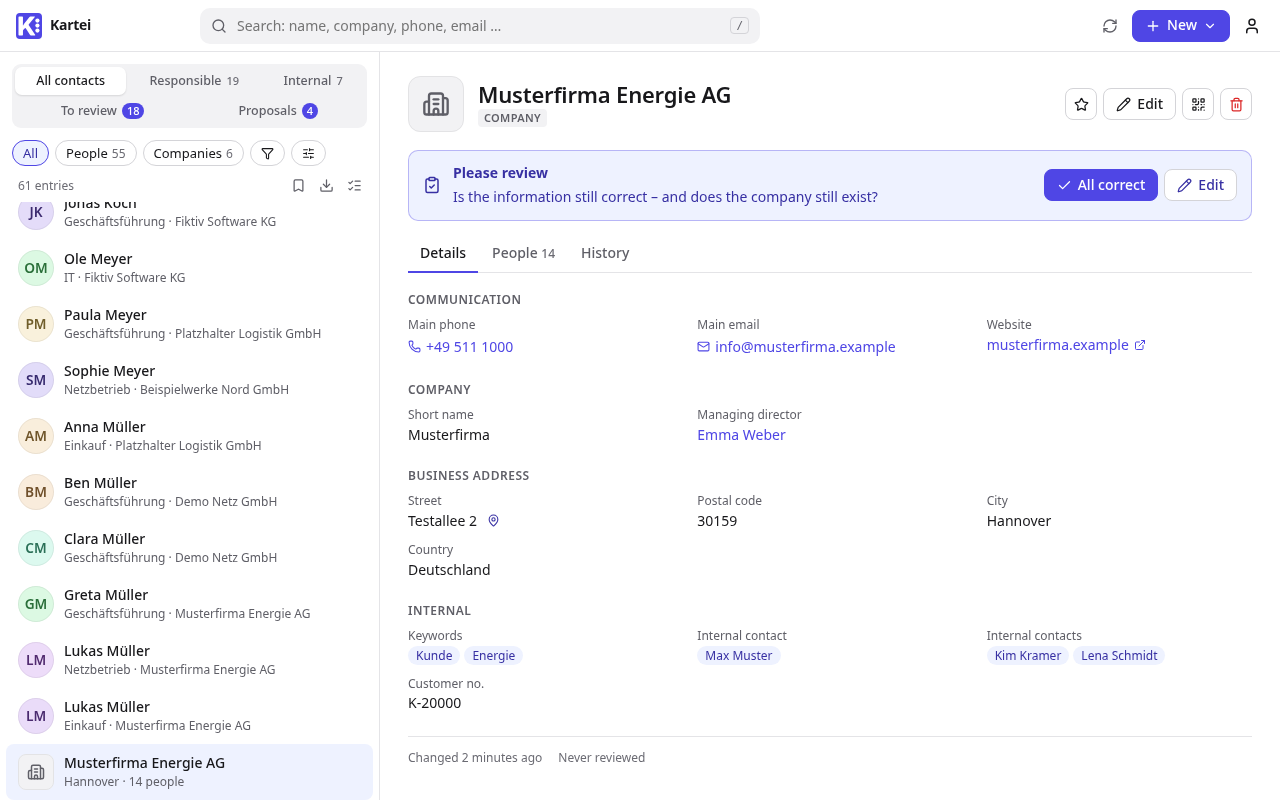
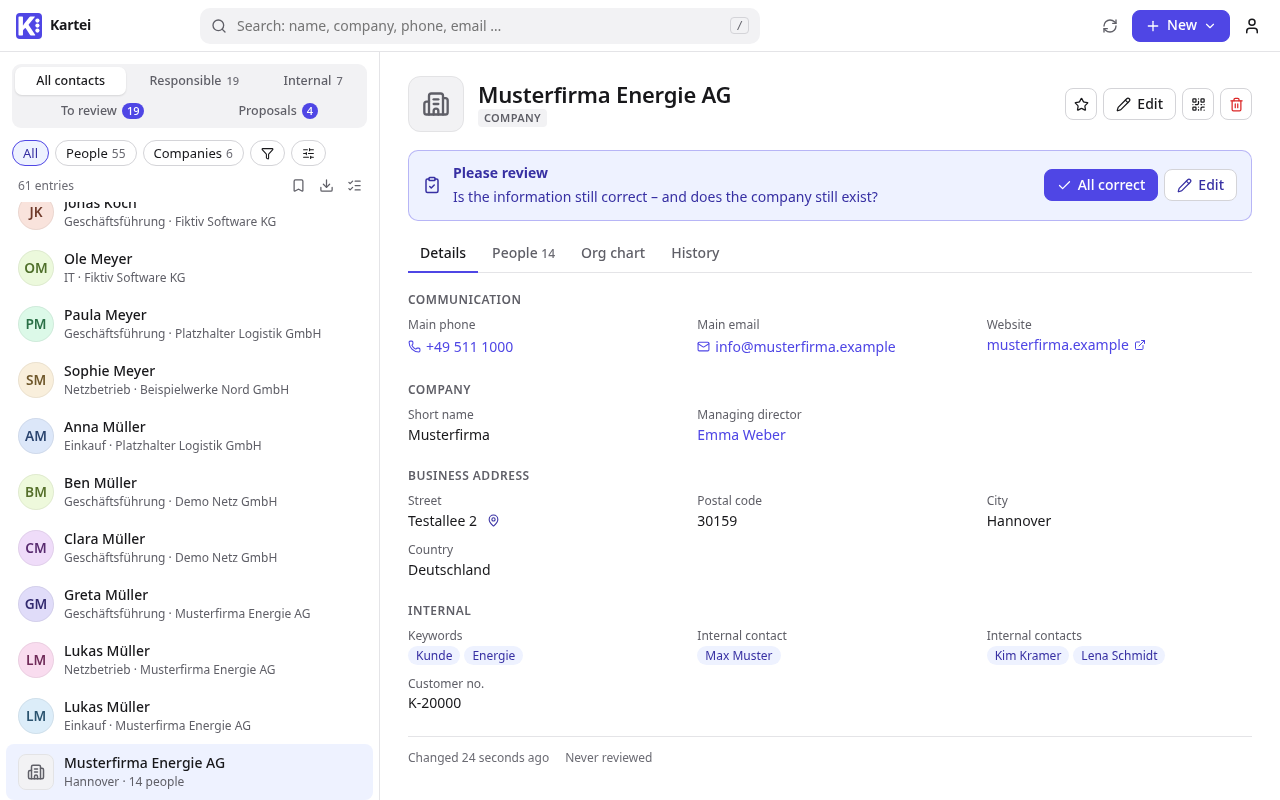
Org chart and "linked from"
- A Contact field with the vCard target related_manager means "reports to": companies get an Org chart
  tab, a tree of their people along it (src/lib/orgchart.ts: cycles, people reporting outside the
  company and a depth limit handled; nested lists with CSS connector lines).
- A person lists who points at them through Contact fields: direct reports, or the company where they
  are managing director (store.refs).
- Example field set: Manager becomes a Contact field (free text still allowed); seed_demo fills it with
  two to three levels per company.

diff --git a/frontend/src/components/RecordView.svelte b/frontend/src/components/RecordView.svelte
@@ -7,12 +7,14 @@
   import Avatar from './Avatar.svelte'
   import History from './History.svelte'
   import RecordForm from './RecordForm.svelte'
+  import OrgChart from './OrgChart.svelte'
   import { ApiError, del, post } from '../lib/api'
   import { go } from '../lib/router.svelte'
   import { store } from '../lib/store.svelte'
   import { fmt, isEmpty, isMulti, relTime, dateTime } from '../lib/format'
   import { L, t, terr } from '../lib/i18n.svelte'
   import { groupFields } from '../lib/sections'
+  import { hasOrg, managerField } from '../lib/orgchart'
   import { copyText, toast } from '../lib/toast.svelte'
   import { hasEditDraft } from '../lib/drafts'
   import { confirmDialog } from '../lib/confirm.svelte'
@@ -34,7 +36,7 @@
     const address = [part('street'), [part('zip'), part('city')].filter(Boolean).join(' '), part('country')].filter(Boolean).join(', ')
     return store.mapUrl.replaceAll('{address}', encodeURIComponent(address))
   }
-  let tab = $state<'details' | 'persons' | 'history'>('details')
+  let tab = $state<'details' | 'persons' | 'org' | 'history'>('details')
   // edit form that proposes (new or own pending proposal) or adjusts a proposal before applying it
   let proposing = $state<{ mode: 'propose' | 'adjust'; proposal: Proposal | null } | null>(null)
   let deleting = $state(false) // delete-proposal composer
@@ -87,6 +89,18 @@
 
   const company = $derived(rec.company ? store.byUid.get(rec.company) : undefined)
   const persons = $derived(rec.kind === 'company' ? store.persons.get(rec.uid) ?? [] : [])
+  const manager = $derived(managerField(store.fields))
+  const showOrg = $derived(!!manager && rec.kind === 'company' && hasOrg(persons, manager.key))
+  /** who points at this person through a contact field, grouped by field: "Direct reports", "As Managing director of" */
+  const linked = $derived.by(() => {
+    const groups = new Map<string, { field: Field; recs: Rec[] }>()
+    for (const { rec: r, field } of store.refs.get(rec.uid) ?? []) {
+      const g = groups.get(field.key) ?? { field, recs: [] }
+      g.recs.push(r)
+      groups.set(field.key, g)
+    }
+    return [...groups.values()]
+  })
   /** filled-in fields by section, in section order */
   const sections = $derived(
     groupFields(store.fieldsFor(rec.kind).filter((f) => !isEmpty(rec.data[f.key])), store.sections).map((g) => ({
@@ -201,6 +215,7 @@
       <button class:on={tab === 'details'} onclick={() => (tab = 'details')}>{t('view.details')}</button>
       {#if rec.kind === 'company'}
         <button class:on={tab === 'persons'} onclick={() => (tab = 'persons')}>{t('view.persons')} <span class="count">{persons.length}</span></button>
+        {#if showOrg}<button class:on={tab === 'org'} onclick={() => (tab = 'org')}>{t('view.org')}</button>{/if}
       {/if}
       <button class:on={tab === 'history'} onclick={() => (tab = 'history')}>{t('view.history')}</button>
     </nav>
@@ -250,6 +265,21 @@
           </dl>
         </section>
       {/each}
+      {#if linked.length}
+        <section>
+          <h3>{t('view.linked')}</h3>
+          <dl>
+            {#each linked as g (g.field.key)}
+              <div class="row wide">
+                <dt>{g.field.vcard === 'related_manager' ? t('view.direct_reports') : t('view.linked_as', { field: L(g.field.label) })}</dt>
+                <dd>
+                  {#each g.recs as r, i (r.uid)}<a href="/{r.kind}/{r.uid}">{store.name(r)}</a>{#if i < g.recs.length - 1}<span>, </span>{/if}{/each}
+                </dd>
+              </div>
+            {/each}
+          </dl>
+        </section>
+      {/if}
       <footer class="meta">
         {#if rec.legacy_id}<span>{t('view.legacy_id', { id: rec.legacy_id })}</span>{/if}
         <span title={dateTime(rec.updated_at)}>{rec.updated_by ? t('view.updated', { when: relTime(rec.updated_at), user: store.userName(rec.updated_by) })
@@ -268,6 +298,8 @@
           <li class="muted">{t('view.no_persons')}</li>
         {/each}
       </ul>
+    {:else if tab === 'org' && manager}
+      <OrgChart staff={persons} field={manager.key} />
     {:else}
       <History uid={rec.uid} />
     {/if}

diff --git a/frontend/src/components/OrgChart.svelte b/frontend/src/components/OrgChart.svelte
@@ -1,0 +1,44 @@
+<script lang="ts">
+  import Avatar from './Avatar.svelte'
+  import { store } from '../lib/store.svelte'
+  import { orgTree, type OrgNode } from '../lib/orgchart'
+  import type { Rec } from '../lib/types'
+
+  /** the company's persons as a tree along the "reports to" field; a nested list, so keyboard and screen readers just work */
+  let { staff, field }: { staff: Rec[]; field: string } = $props()
+  const roots = $derived(orgTree(staff, field, (r) => store.name(r)))
+  const titleKey = $derived(store.fields.find((f) => f.vcard === 'title' && !f.archived)?.key)
+  const job = (r: Rec) => (titleKey ? r.data[titleKey] : '') ?? ''
+</script>
+
+{#snippet tree(nodes: OrgNode[])}
+  <ul>
+    {#each nodes as n (n.rec.uid)}
+      <li>
+        <a class="person" href="/person/{n.rec.uid}">
+          <Avatar rec={n.rec} size={28} />
+          <span><strong>{store.name(n.rec)}</strong>{#if job(n.rec)}<small>{job(n.rec)}</small>{/if}</span>
+        </a>
+        {#if n.children.length}{@render tree(n.children)}{/if}
+      </li>
+    {/each}
+  </ul>
+{/snippet}
+
+<div class="org">{@render tree(roots)}</div>
+
+<style>
+  /* connector lines: each nested item hangs off a vertical line with a short horizontal tick */
+  .org :global(ul) { list-style: none; margin: 0; padding-left: 0; }
+  .org :global(ul ul) { margin-left: 13px; padding-left: 20px; }
+  .org :global(ul ul > li) { position: relative; }
+  .org :global(ul ul > li::before) { content: ''; position: absolute; left: -20px; top: 20px; width: 16px; border-top: 1px solid var(--border-strong); }
+  .org :global(ul ul > li::after) { content: ''; position: absolute; left: -20px; top: 0; bottom: 0; border-left: 1px solid var(--border-strong); }
+  .org :global(ul ul > li:last-child::after) { bottom: auto; height: 20px; }  /* the line stops at the last tick */
+  .org :global(li) { padding: 3px 0; }
+  .person { display: inline-flex; align-items: center; gap: 10px; padding: 4px 10px 4px 4px; border-radius: 8px; color: var(--text); }
+  .person:hover { background: var(--panel-2); text-decoration: none; }
+  .person span { display: flex; flex-direction: column; line-height: 1.25; }
+  strong { font-weight: 500; }
+  small { color: var(--muted); font-size: 12.5px; }
+</style>

diff --git a/frontend/src/lib/orgchart.ts b/frontend/src/lib/orgchart.ts
@@ -1,0 +1,33 @@
+// Org chart of a company from a "reports to" field (a contact field with the vCard target related_manager).
+import type { Field, Rec } from './types'
+
+export interface OrgNode { rec: Rec; children: OrgNode[] }
+
+/** the field that says who someone reports to; none = no org chart */
+export const managerField = (fields: Field[]) =>
+  fields.find((f) => f.type === 'contact' && f.vcard === 'related_manager' && !f.archived && f.applies_to !== 'company')
+
+/** Trees of the company's persons. Roots: no manager, or one outside the company. A cycle (A → B → A) can't hang
+ *  from anywhere: its first member becomes a root, so everybody appears exactly once. */
+export function orgTree(staff: Rec[], key: string, name: (r: Rec) => string, maxDepth = 20): OrgNode[] {
+  const byUid = new Map(staff.map((r) => [r.uid, r]))
+  const boss = (r: Rec) => { const m = r.data[key]; return typeof m === 'string' && m !== r.uid && byUid.has(m) ? m : null }
+  const under = new Map<string, Rec[]>()
+  for (const r of staff) { const m = boss(r); if (m) under.set(m, [...(under.get(m) ?? []), r]) }
+  const sort = (rs: Rec[]) => [...rs].sort((a, b) => name(a).localeCompare(name(b)))
+  const seen = new Set<string>()
+  const node = (r: Rec, depth: number): OrgNode => {
+    seen.add(r.uid)
+    const kids = depth < maxDepth ? sort(under.get(r.uid) ?? []).filter((c) => !seen.has(c.uid)) : []
+    return { rec: r, children: kids.map((c) => node(c, depth + 1)) }
+  }
+  const roots = sort(staff.filter((r) => !boss(r))).map((r) => node(r, 0))
+  for (const r of sort(staff)) if (!seen.has(r.uid)) roots.push(node(r, 0))  // left over: cycles, or too deep
+  return roots
+}
+
+/** is there anything worth drawing: at least one person reports to someone in the same company */
+export const hasOrg = (staff: Rec[], key: string) => {
+  const ids = new Set(staff.map((r) => r.uid))
+  return staff.some((r) => r.data[key] !== r.uid && ids.has(r.data[key]))
+}

diff --git a/frontend/tests/orgchart.test.ts b/frontend/tests/orgchart.test.ts
@@ -1,0 +1,34 @@
+import { test } from 'node:test'
+import assert from 'node:assert/strict'
+import { hasOrg, managerField, orgTree, type OrgNode } from '../src/lib/orgchart.ts'
+import type { Field, Rec } from '../src/lib/types.ts'
+
+const p = (uid: string, manager?: string) => ({ uid, kind: 'person', last_name: uid, data: manager ? { manager } : {} }) as unknown as Rec
+const name = (r: Rec) => r.last_name
+const shape = (ns: OrgNode[]): any => ns.map((n) => n.children.length ? { [n.rec.uid]: shape(n.children) } : n.rec.uid)
+
+test('tree: boss at the top, sorted, a manager outside the company makes a root', () => {
+  const staff = [p('d', 'b'), p('b', 'a'), p('a'), p('c', 'a'), p('x', 'other-company')]
+  assert.deepEqual(shape(orgTree(staff, 'manager', name)), [{ a: [{ b: ['d'] }, 'c'] }, 'x'])
+  assert.equal(hasOrg(staff, 'manager'), true)
+  assert.equal(hasOrg([p('a'), p('x', 'elsewhere')], 'manager'), false)
+})
+
+test('cycles and self-references: everyone appears exactly once', () => {
+  const staff = [p('a', 'b'), p('b', 'a'), p('c', 'c'), p('d', 'a')]
+  const all: string[] = []
+  const walk = (ns: OrgNode[]) => ns.forEach((n) => { all.push(n.rec.uid); walk(n.children) })
+  walk(orgTree(staff, 'manager', name))
+  assert.deepEqual(all.sort(), ['a', 'b', 'c', 'd'])
+})
+
+test('depth limit: deeper people start their own branch', () => {
+  const staff = [p('a'), p('b', 'a'), p('c', 'b')]
+  assert.deepEqual(shape(orgTree(staff, 'manager', name, 1)), [{ a: ['b'] }, 'c'])
+})
+
+test('the manager field is the contact field with the related_manager target', () => {
+  const f = (key: string, type: string, vcard: string) => ({ key, type, vcard, archived: false, applies_to: 'person' }) as Field
+  assert.equal(managerField([f('ceo', 'contact', 'related_custom'), f('manager', 'contact', 'related_manager')])?.key, 'manager')
+  assert.equal(managerField([f('manager', 'text', 'related_manager')]), undefined)
+})

diff --git a/frontend/src/lib/store.svelte.ts b/frontend/src/lib/store.svelte.ts
@@ -61,6 +61,19 @@ class Store {
   rank = $derived(this.user ? RANK[this.user.role] : -1)
   canEdit = $derived(this.rank >= 1)
   isAdmin = $derived(this.rank >= 2)
+  /** who points at a person through a contact field (e.g. "reports to"): person uid → [{record, field}] */
+  refs = $derived.by(() => {
+    const keys = this.fields.filter((f) => f.type === 'contact' && !f.archived)
+    const m = new Map<string, { rec: Rec; field: Field }[]>()
+    if (!keys.length) return m
+    for (const { rec } of this.index) {
+      for (const f of keys) {
+        const v = rec.data[f.key]
+        if (typeof v === 'string' && v !== rec.uid && this.byUid.has(v)) m.set(v, [...(m.get(v) ?? []), { rec, field: f }])
+      }
+    }
+    return m
+  })
   /** persons per company uid */
   persons = $derived.by(() => {
     const m = new Map<string, Rec[]>()

diff --git a/frontend/src/i18n/de.ts b/frontend/src/i18n/de.ts
@@ -127,6 +127,10 @@ export default {
 
   'view.details': 'Details',
   'view.persons': 'Personen',
+  'view.org': 'Organigramm',
+  'view.linked': 'Verknüpft mit',
+  'view.direct_reports': 'Direkte Mitarbeitende',
+  'view.linked_as': 'Als {field} bei',
   'view.history': 'Verlauf',
   'view.vcard': 'vCard herunterladen',
   'view.copy': 'Kopieren',

diff --git a/frontend/src/i18n/en.ts b/frontend/src/i18n/en.ts
@@ -127,6 +127,10 @@ export default {
 
   'view.details': 'Details',
   'view.persons': 'People',
+  'view.org': 'Org chart',
+  'view.linked': 'Linked from',
+  'view.direct_reports': 'Direct reports',
+  'view.linked_as': 'As {field} of',
   'view.history': 'History',
   'view.vcard': 'Download vCard',
   'view.copy': 'Copy',

diff --git a/backend/kartei/management/commands/seed_demo.py b/backend/kartei/management/commands/seed_demo.py
@@ -97,6 +97,14 @@ class Command(BaseCommand):
             if ceo and "ceo" in known:
                 c.data["ceo"] = str(ceo.uid)
                 c.save(update_fields=["data"])
+            # org chart: the managing director at the top, the first person of each department its head
+            staff = [p for p in persons if p.company_id == c.id]
+            top, heads = ceo or staff[0], {}
+            for p in staff:
+                if p is not top and "manager" in known:
+                    head = heads.setdefault(p.data.get("department", ""), p)
+                    p.data["manager"] = str((top if head is p else head).uid)
+                    p.save(update_fields=["data"])
         # data quality cases: a duplicate pair, a person without company, an invalid email
         twin = persons[3]
         persons.append(Record.objects.create(kind="person", first_name=twin.first_name, last_name=twin.last_name,

diff --git a/manuals/de/admin.md b/manuals/de/admin.md
@@ -555,7 +555,7 @@ Jede Änderung an Abschnitten steht im Protokoll.
 | *Datum*, *Ja/Nein* | Echte Datums- und Ja/Nein-Werte (auch in Excel richtig typisiert). |
 | *Benutzer* | Ein Kartei-Benutzer, z. B. der interne Zuständige. Das **erste** Feld vom Typ *Benutzer* bestimmt, wer den Kontakt prüft. Administratoren und inaktive Benutzer werden nicht angeboten; ein früher eingetragener Wert bleibt erhalten. |
 | *Mehrere Benutzer* | Mehrere Kartei-Benutzer, z. B. interne Kontakte. Auch hier werden Administratoren und inaktive Benutzer nicht angeboten. |
-| *Kontakt (Person der Firma)* | Verweist auf eine Person derselben Firma, z. B. den Geschäftsführer. |
+| *Kontakt (Person der Firma)* | Verweist auf eine Person derselben Firma, z. B. den Geschäftsführer. Die verknüpfte Person zeigt den Kontakt unter *Verknüpft mit*. Mit der vCard-Zuordnung *Beziehung: Vorgesetzte(r)* (`related_manager`) bedeutet das Feld „berichtet an“: Firmen bekommen dann den Reiter **Organigramm**, der daraus entsteht (der Beispiel-Feldbestand hat es als *Vorgesetzter*). |
 
 Exporte, vCards und der AD-Sync zeigen die Namen der Benutzer und verknüpften Personen, nicht ihre IDs.
 

diff --git a/manuals/en/admin.md b/manuals/en/admin.md
@@ -555,7 +555,7 @@ Every change to a section is recorded in the audit log.
 | *Date*, *Yes/No* | Real date and checkbox values (also typed correctly in Excel). |
 | *User* | One Kartei user, e.g. the internal person responsible. The **first** *User* field of a contact determines who reviews it. Administrators and inactive users are not offered; a value set earlier stays. |
 | *Multiple users* | Several Kartei users, e.g. internal contacts. Here too, administrators and inactive users are not offered. |
-| *Contact (person of the company)* | Links a person of the same company, e.g. the managing director. |
+| *Contact (person of the company)* | Links a person of the same company, e.g. the managing director. The linked person lists the contact under *Linked from*. With the vCard assignment *Relation: manager* (`related_manager`) the field means "reports to": companies then get an **Org chart** tab built from it (the example field set has it as *Manager*). |
 
 Exports, vCards and the AD sync show the names of users and linked persons, not their IDs.
 

diff --git a/manuals/de/user.md b/manuals/de/user.md
@@ -247,6 +247,12 @@ Firmen haben zusätzlich den Reiter **Personen** mit allen, die dort arbeiten. A
 
 ![Reiter Personen einer Firma](../img/de/company-persons.png)
 
+**Organigramm.** Hat deine Kartei ein Feld *Vorgesetzter* und ist es bei den Personen der Firma gepflegt, gibt es zusätzlich den Reiter **Organigramm**: oben die Geschäftsführung (oder wer dort an niemanden berichtet), darunter alle anderen bei der Person, an die sie berichten. Ein Klick auf einen Namen öffnet die Person.
+
+![Das Organigramm einer Firma](../img/de/org-chart.png)
+
+**Verknüpft mit.** Eine Person zeigt unter *Verknüpft mit*, wer auf sie verweist, z. B. ihre **Direkten Mitarbeitenden** oder die Firma, bei der sie Geschäftsführer ist.
+
 ### Verlauf
 
 Der Reiter **Verlauf** zeigt jede Änderung am Kontakt: wer wann was geändert hat, mit altem und neuem Wert. Auch Vorschläge, Prüfungen, Entscheidungen und Löschungen stehen dort.

diff --git a/manuals/en/user.md b/manuals/en/user.md
@@ -247,6 +247,12 @@ A company has an extra tab **People** listing everyone who works there. Maintain
 
 ![The People tab of a company](../img/en/company-persons.png)
 
+**Org chart.** If your Kartei has a *Manager* field and people in the company use it, the company also has the tab **Org chart**: the managing director (or whoever reports to nobody there) at the top, everyone else below the person they report to. Click a name to open that person.
+
+![The org chart of a company](../img/en/org-chart.png)
+
+**Linked from.** A person shows under *Linked from* who points at them, e.g. their **Direct reports**, or the company where they are the managing director.
+
 ### History
 
 The **History** tab shows every change to the contact: who changed what and when, with old and new values. Proposals, reviews, decisions and deletions are listed there too.
